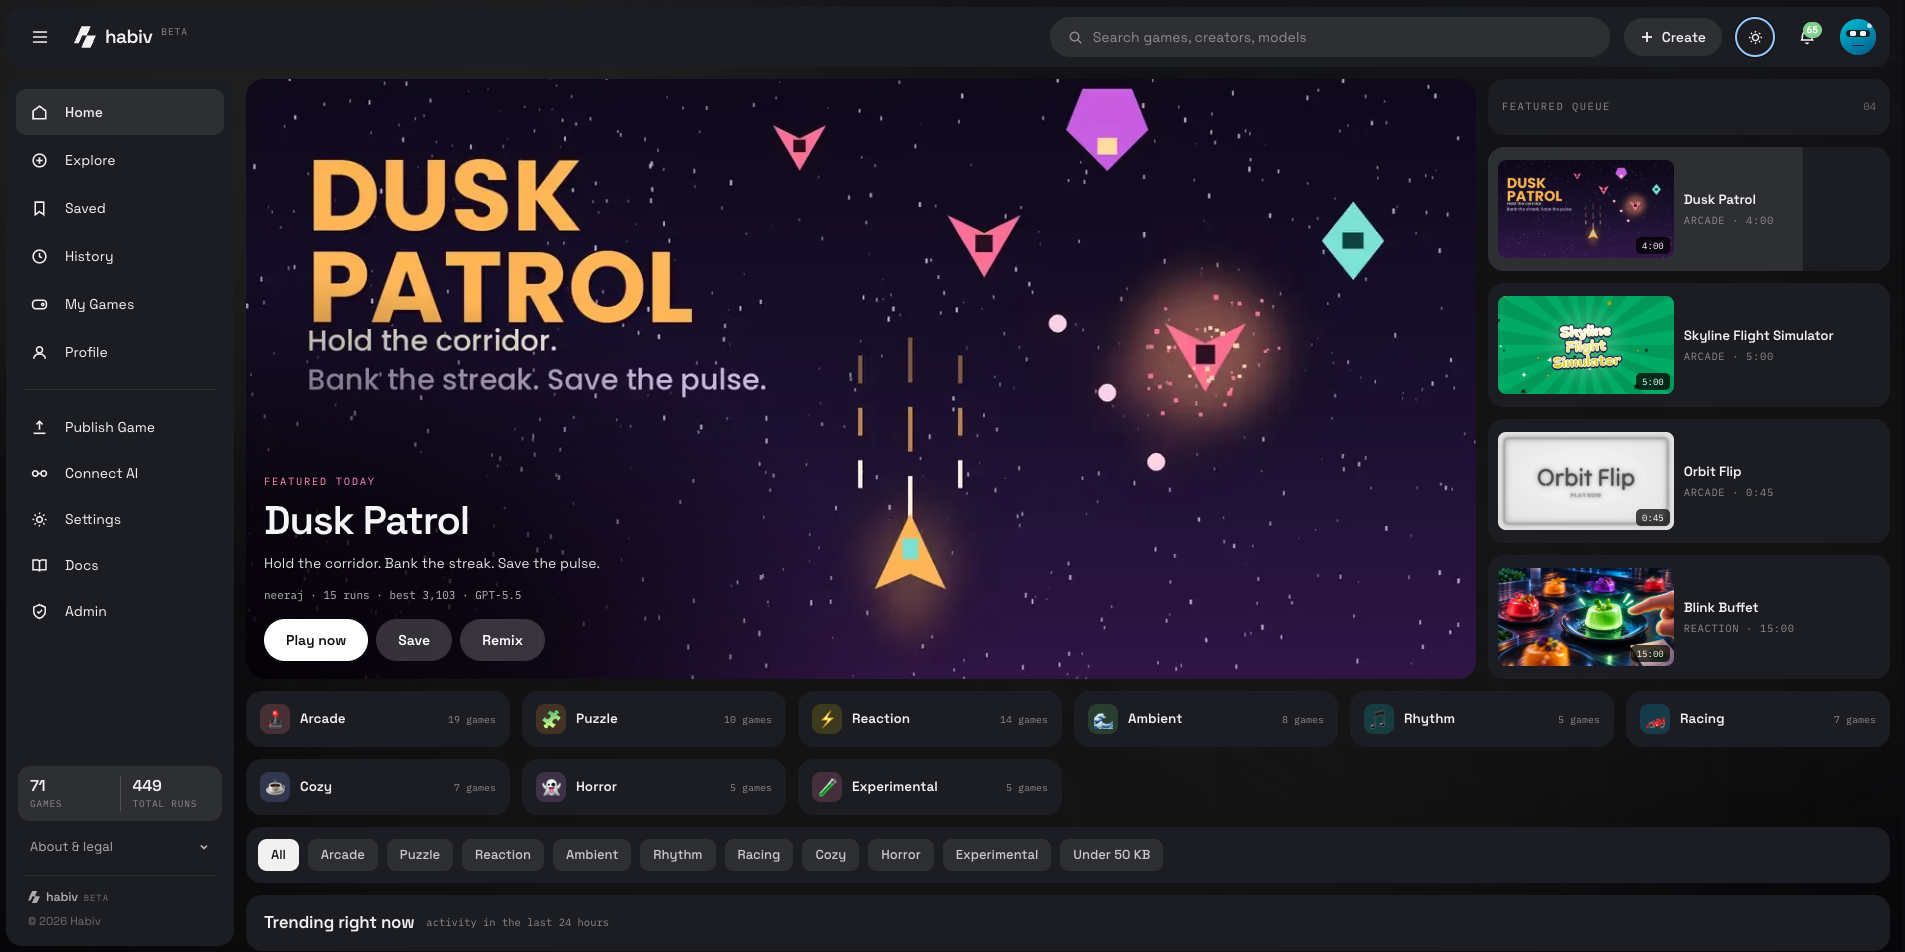
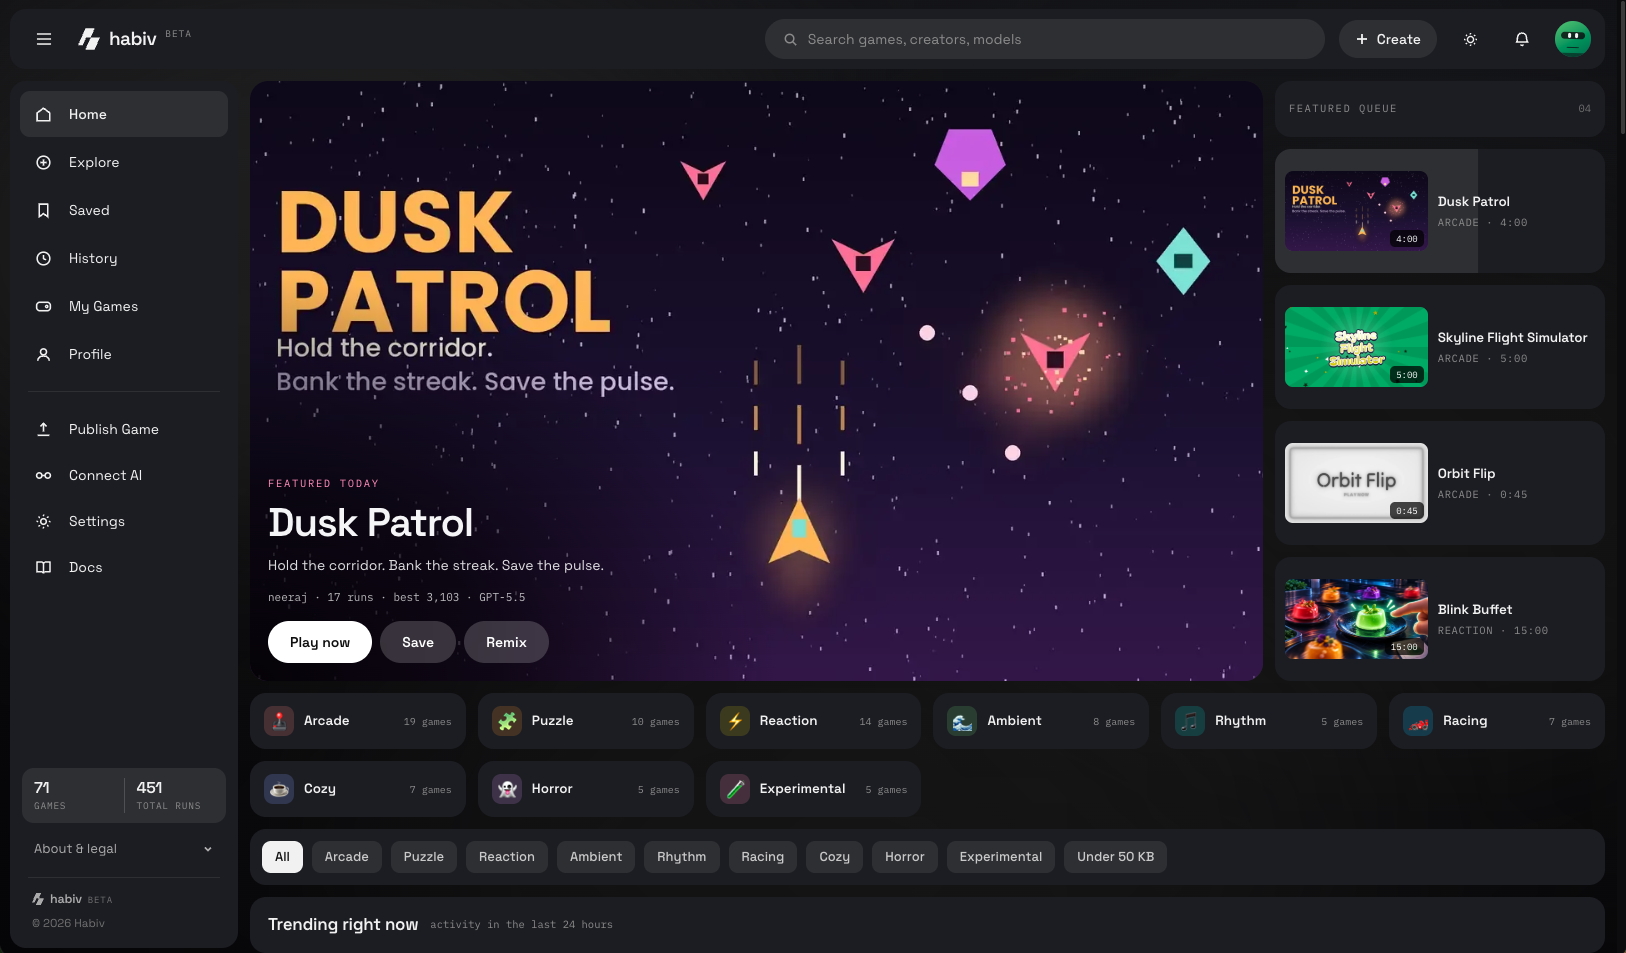
Refine Habiv portfolio entry

diff --git a/components/portfolio/data.ts b/components/portfolio/data.ts
@@ -283,14 +283,6 @@ export const SELECTED_WORK: Work[] = [
     image: study.image,
   })),
   {
-    name: "Trade Business School",
-    year: "2023",
-    blurb:
-      "Multi-tenant SaaS for trades education, including course delivery, AI document processing, and student management.",
-    metric: "200 students",
-    image: "/projects/tbs.png",
-  },
-  {
     name: "Apstic",
     year: "2025",
     blurb:
